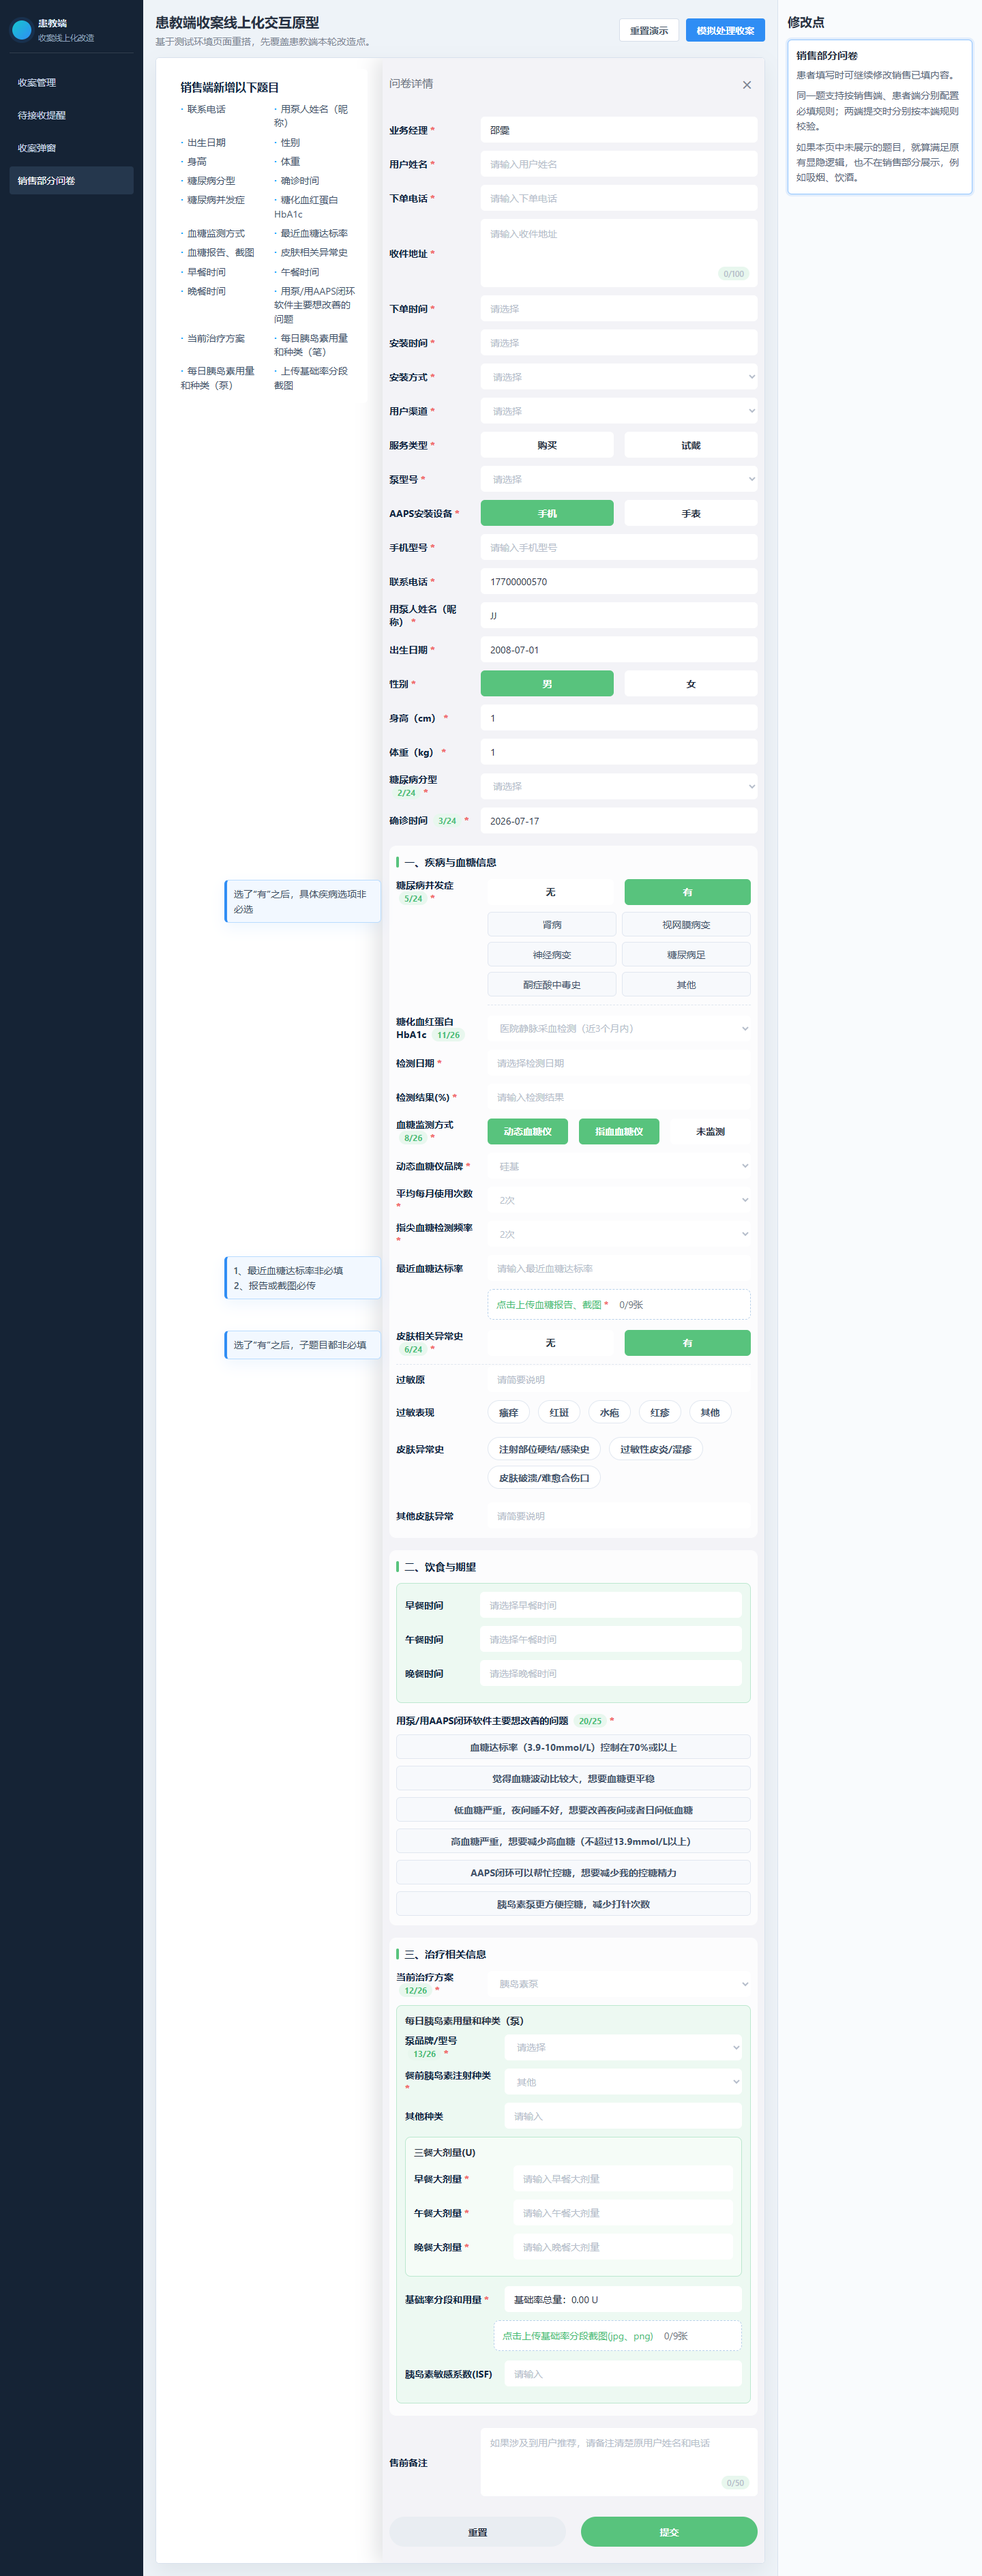
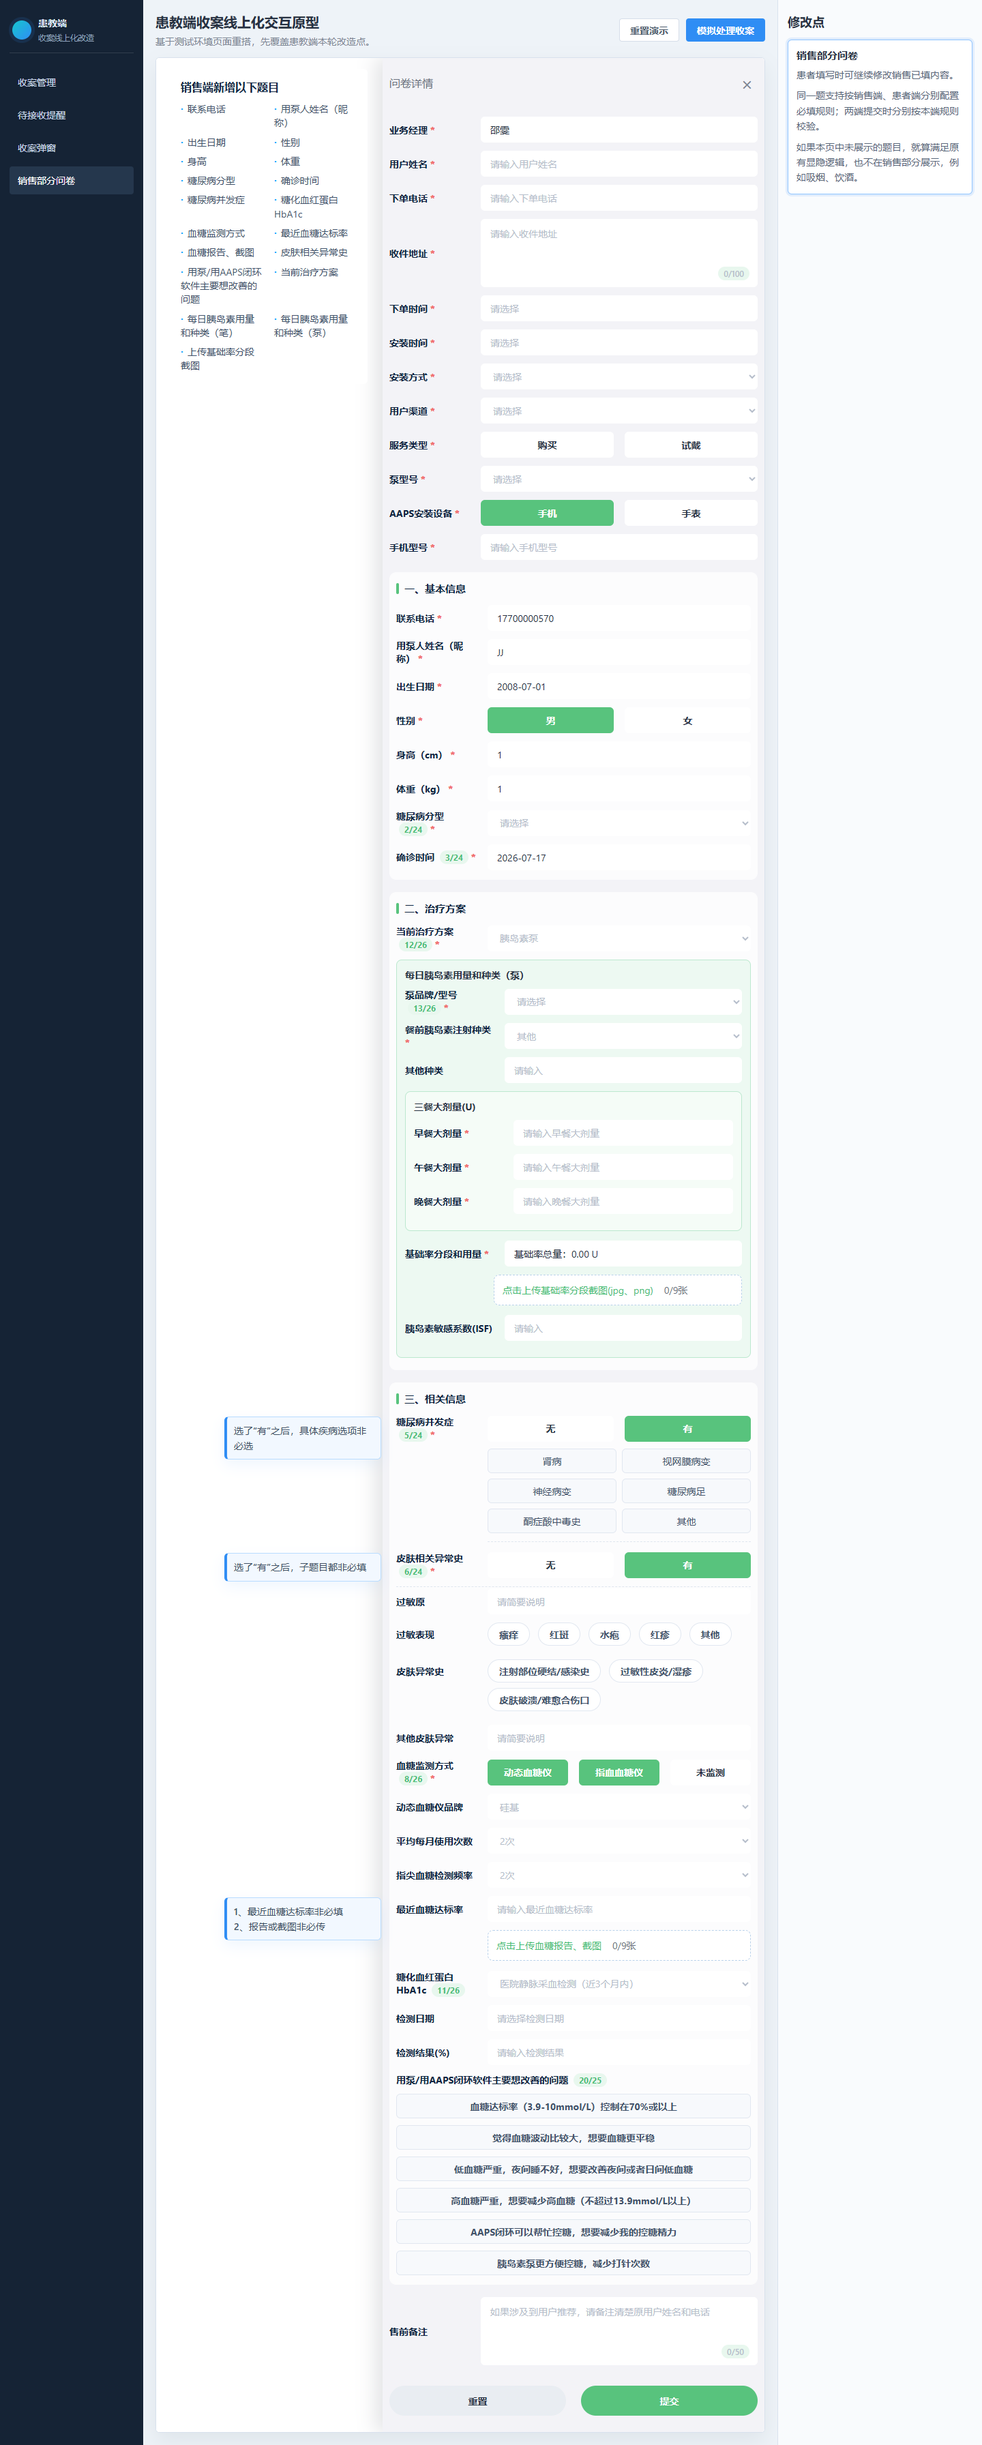
Reorder sales questionnaire sections

diff --git a/index.html b/index.html
@@ -175,9 +175,6 @@
                 <li>最近血糖达标率</li>
                 <li>血糖报告、截图</li>
                 <li>皮肤相关异常史</li>
-                <li>早餐时间</li>
-                <li>午餐时间</li>
-                <li>晚餐时间</li>
                 <li>用泵/用AAPS闭环软件主要想改善的问题</li>
                 <li>当前治疗方案</li>
                 <li>每日胰岛素用量和种类（笔）</li>
@@ -212,6 +209,9 @@
                 </div>
                 <label data-toggle-target="aapsDevice" data-show-when="phone"><span>手机型号 <strong>*</strong></span><input placeholder="请输入手机型号" /></label>
                 <label class="hidden" data-toggle-target="aapsDevice" data-show-when="watch"><span>手表型号 <strong>*</strong></span><input placeholder="请输入手表型号" /></label>
+
+                <section class="sales-section">
+                  <h3>一、基本信息</h3>
                   <label><span>联系电话 <strong>*</strong></span><input value="17700000570" placeholder="请输入联系电话" /></label>
                   <label><span>用泵人姓名（昵称） <strong>*</strong></span><input value="JJ" placeholder="请输入用泵人姓名或昵称" /></label>
                   <label><span>出生日期 <strong>*</strong></span><input value="2008-07-01" /></label>
@@ -224,9 +224,45 @@
                   <label><span>体重（kg） <strong>*</strong></span><input value="1" /></label>
                   <label><span>糖尿病分型 <em>2/24</em> <strong>*</strong></span><select><option>请选择</option><option>T1DM（1型糖尿病）</option><option>T2DM（2型糖尿病）</option><option>GDM（妊娠糖尿病）</option><option>其他特定类型糖尿病</option></select></label>
                   <label><span>确诊时间 <em>3/24</em> <strong>*</strong></span><input value="2026-07-17" /></label>
+                </section>
 
                 <section class="sales-section">
-                  <h3>一、疾病与血糖信息</h3>
+                  <h3>二、治疗方案</h3>
+                  <label><span>当前治疗方案 <em>12/26</em> <strong>*</strong></span><select id="treatmentPlanSelect"><option value="pump">胰岛素泵</option><option value="pen">餐前+基础（胰岛素笔等）</option><option value="medicine">降糖药物治疗</option><option value="lifestyle">生活方式干预（饮食+运动）</option><option value="premix">预混（胰岛素笔等）</option></select></label>
+                  <div class="sales-green-panel hidden" data-plan-panel="pen">
+                    <b>每日胰岛素用量和种类（笔）</b>
+                    <label><span>餐前胰岛素注射种类 <strong>*</strong></span><select><option>其他</option></select></label>
+                    <label><span>其他种类</span><input placeholder="请输入" /></label>
+                    <div class="meal-dose">
+                      <b>三餐大剂量(U)</b>
+                      <label><span>早餐大剂量 <strong>*</strong></span><input placeholder="请输入早餐大剂量" /></label>
+                      <label><span>午餐大剂量 <strong>*</strong></span><input placeholder="请输入午餐大剂量" /></label>
+                      <label><span>晚餐大剂量 <strong>*</strong></span><input placeholder="请输入晚餐大剂量" /></label>
+                    </div>
+                    <label><span>基础胰岛素注射剂量(U)</span><input placeholder="请输入基础胰岛素注射剂量" /></label>
+                    <label><span>基础胰岛素种类 <strong>*</strong></span><select><option>请选择</option></select></label>
+                    <label><span>注射次数 <strong>*</strong></span><select><option>请选择</option></select></label>
+                    <label><span>胰岛素敏感系数(ISF)</span><input placeholder="请输入" /></label>
+                  </div>
+                  <div class="sales-green-panel" data-plan-panel="pump">
+                    <b>每日胰岛素用量和种类（泵）</b>
+                    <label><span>泵品牌/型号 <em>13/26</em> <strong>*</strong></span><select><option>请选择</option></select></label>
+                    <label><span>餐前胰岛素注射种类 <strong>*</strong></span><select><option>其他</option></select></label>
+                    <label><span>其他种类</span><input placeholder="请输入" /></label>
+                    <div class="meal-dose">
+                      <b>三餐大剂量(U)</b>
+                      <label><span>早餐大剂量 <strong>*</strong></span><input placeholder="请输入早餐大剂量" /></label>
+                      <label><span>午餐大剂量 <strong>*</strong></span><input placeholder="请输入午餐大剂量" /></label>
+                      <label><span>晚餐大剂量 <strong>*</strong></span><input placeholder="请输入晚餐大剂量" /></label>
+                    </div>
+                    <label><span>基础率分段和用量 <strong>*</strong></span><input value="基础率总量：0.00 U" /></label>
+                    <div class="upload-box">点击上传基础率分段截图(jpg、png)<span>0/9张</span></div>
+                    <label><span>胰岛素敏感系数(ISF)</span><input placeholder="请输入" /></label>
+                  </div>
+                </section>
+
+                <section class="sales-section">
+                  <h3>三、相关信息</h3>
                   <div class="field-with-note">
                     <aside class="field-note">选了“有”之后，具体疾病选项非必选</aside>
                     <div class="sales-choice-row" data-toggle-group="complication">
@@ -242,23 +278,6 @@
                     <button type="button">糖尿病足</button>
                     <button type="button">酮症酸中毒史</button>
                     <button type="button">其他</button>
-                  </div>
-                  <label><span>糖化血红蛋白 HbA1c <em>11/26</em></span><select><option>医院静脉采血检测（近3个月内）</option></select></label>
-                  <label><span>检测日期 <strong>*</strong></span><input placeholder="请选择检测日期" /></label>
-                  <label><span>检测结果(%) <strong>*</strong></span><input placeholder="请输入检测结果" /></label>
-                  <div class="sales-choice-row triple">
-                    <span>血糖监测方式 <em>8/26</em> <strong>*</strong></span>
-                    <button class="selected" type="button">动态血糖仪</button>
-                    <button class="selected" type="button">指血血糖仪</button>
-                    <button type="button">未监测</button>
-                  </div>
-                  <label><span>动态血糖仪品牌 <strong>*</strong></span><select><option>硅基</option></select></label>
-                  <label><span>平均每月使用次数 <strong>*</strong></span><select><option>2次</option></select></label>
-                  <label><span>指尖血糖检测频率 <strong>*</strong></span><select><option>2次</option></select></label>
-                  <div class="field-with-note">
-                    <aside class="field-note">1、最近血糖达标率非必填<br />2、报告或截图必传</aside>
-                    <label><span>最近血糖达标率</span><input placeholder="请输入最近血糖达标率" /></label>
-                    <div class="upload-box sales-upload-full">点击上传血糖报告、截图 <strong>*</strong><span>0/9张</span></div>
                   </div>
                   <div class="field-with-note">
                     <aside class="field-note">选了“有”之后，子题目都非必填</aside>
@@ -290,58 +309,31 @@
                     </div>
                     <label><span>其他皮肤异常</span><input placeholder="请简要说明" /></label>
                   </div>
-                </section>
-
-                <section class="sales-section">
-                  <h3>二、饮食与期望</h3>
-                  <div class="sales-green-panel compact-meals">
-                    <label><span>早餐时间</span><input placeholder="请选择早餐时间" /></label>
-                    <label><span>午餐时间</span><input placeholder="请选择午餐时间" /></label>
-                    <label><span>晚餐时间</span><input placeholder="请选择晚餐时间" /></label>
+                  <div class="sales-choice-row triple">
+                    <span>血糖监测方式 <em>8/26</em> <strong>*</strong></span>
+                    <button class="selected" type="button">动态血糖仪</button>
+                    <button class="selected" type="button">指血血糖仪</button>
+                    <button type="button">未监测</button>
                   </div>
+                  <label><span>动态血糖仪品牌</span><select><option>硅基</option></select></label>
+                  <label><span>平均每月使用次数</span><select><option>2次</option></select></label>
+                  <label><span>指尖血糖检测频率</span><select><option>2次</option></select></label>
+                  <div class="field-with-note">
+                    <aside class="field-note">1、最近血糖达标率非必填<br />2、报告或截图非必传</aside>
+                    <label><span>最近血糖达标率</span><input placeholder="请输入最近血糖达标率" /></label>
+                    <div class="upload-box sales-upload-full">点击上传血糖报告、截图<span>0/9张</span></div>
+                  </div>
+                  <label><span>糖化血红蛋白 HbA1c <em>11/26</em></span><select><option>医院静脉采血检测（近3个月内）</option></select></label>
+                  <label><span>检测日期</span><input placeholder="请选择检测日期" /></label>
+                  <label><span>检测结果(%)</span><input placeholder="请输入检测结果" /></label>
                   <div class="sales-long-choice">
-                    <span>用泵/用AAPS闭环软件主要想改善的问题 <em>20/25</em> <strong>*</strong></span>
+                    <span>用泵/用AAPS闭环软件主要想改善的问题 <em>20/25</em></span>
                     <button type="button">血糖达标率（3.9-10mmol/L）控制在70%或以上</button>
                     <button type="button">觉得血糖波动比较大，想要血糖更平稳</button>
                     <button type="button">低血糖严重，夜间睡不好，想要改善夜间或者日间低血糖</button>
                     <button type="button">高血糖严重，想要减少高血糖（不超过13.9mmol/L以上）</button>
                     <button type="button">AAPS闭环可以帮忙控糖，想要减少我的控糖精力</button>
                     <button type="button">胰岛素泵更方便控糖，减少打针次数</button>
-                  </div>
-                </section>
-
-                <section class="sales-section">
-                  <h3>三、治疗相关信息</h3>
-                  <label><span>当前治疗方案 <em>12/26</em> <strong>*</strong></span><select id="treatmentPlanSelect"><option value="pump">胰岛素泵</option><option value="pen">餐前+基础（胰岛素笔等）</option><option value="medicine">降糖药物治疗</option><option value="lifestyle">生活方式干预（饮食+运动）</option><option value="premix">预混（胰岛素笔等）</option></select></label>
-                  <div class="sales-green-panel hidden" data-plan-panel="pen">
-                    <b>每日胰岛素用量和种类（笔）</b>
-                    <label><span>餐前胰岛素注射种类 <strong>*</strong></span><select><option>其他</option></select></label>
-                    <label><span>其他种类</span><input placeholder="请输入" /></label>
-                    <div class="meal-dose">
-                      <b>三餐大剂量(U)</b>
-                      <label><span>早餐大剂量 <strong>*</strong></span><input placeholder="请输入早餐大剂量" /></label>
-                      <label><span>午餐大剂量 <strong>*</strong></span><input placeholder="请输入午餐大剂量" /></label>
-                      <label><span>晚餐大剂量 <strong>*</strong></span><input placeholder="请输入晚餐大剂量" /></label>
-                    </div>
-                    <label><span>基础胰岛素注射剂量(U)</span><input placeholder="请输入基础胰岛素注射剂量" /></label>
-                    <label><span>基础胰岛素种类 <strong>*</strong></span><select><option>请选择</option></select></label>
-                    <label><span>注射次数 <strong>*</strong></span><select><option>请选择</option></select></label>
-                    <label><span>胰岛素敏感系数(ISF)</span><input placeholder="请输入" /></label>
-                  </div>
-                  <div class="sales-green-panel" data-plan-panel="pump">
-                    <b>每日胰岛素用量和种类（泵）</b>
-                    <label><span>泵品牌/型号 <em>13/26</em> <strong>*</strong></span><select><option>请选择</option></select></label>
-                    <label><span>餐前胰岛素注射种类 <strong>*</strong></span><select><option>其他</option></select></label>
-                    <label><span>其他种类</span><input placeholder="请输入" /></label>
-                    <div class="meal-dose">
-                      <b>三餐大剂量(U)</b>
-                      <label><span>早餐大剂量 <strong>*</strong></span><input placeholder="请输入早餐大剂量" /></label>
-                      <label><span>午餐大剂量 <strong>*</strong></span><input placeholder="请输入午餐大剂量" /></label>
-                      <label><span>晚餐大剂量 <strong>*</strong></span><input placeholder="请输入晚餐大剂量" /></label>
-                    </div>
-                    <label><span>基础率分段和用量 <strong>*</strong></span><input value="基础率总量：0.00 U" /></label>
-                    <div class="upload-box">点击上传基础率分段截图(jpg、png)<span>0/9张</span></div>
-                    <label><span>胰岛素敏感系数(ISF)</span><input placeholder="请输入" /></label>
                   </div>
                 </section>
                 <label class="textarea-field"><span>售前备注</span><textarea placeholder="如果涉及到用户推荐，请备注清楚原用户姓名和电话" maxlength="50"></textarea><em>0/50</em></label>
